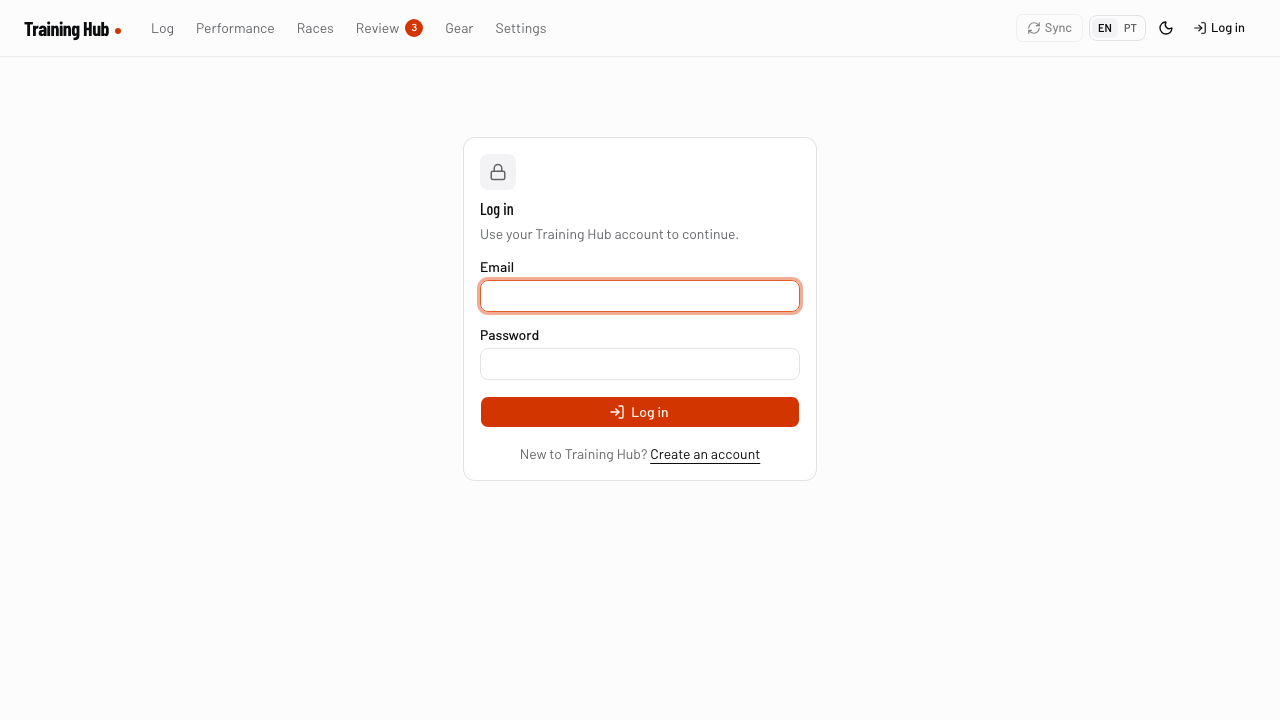
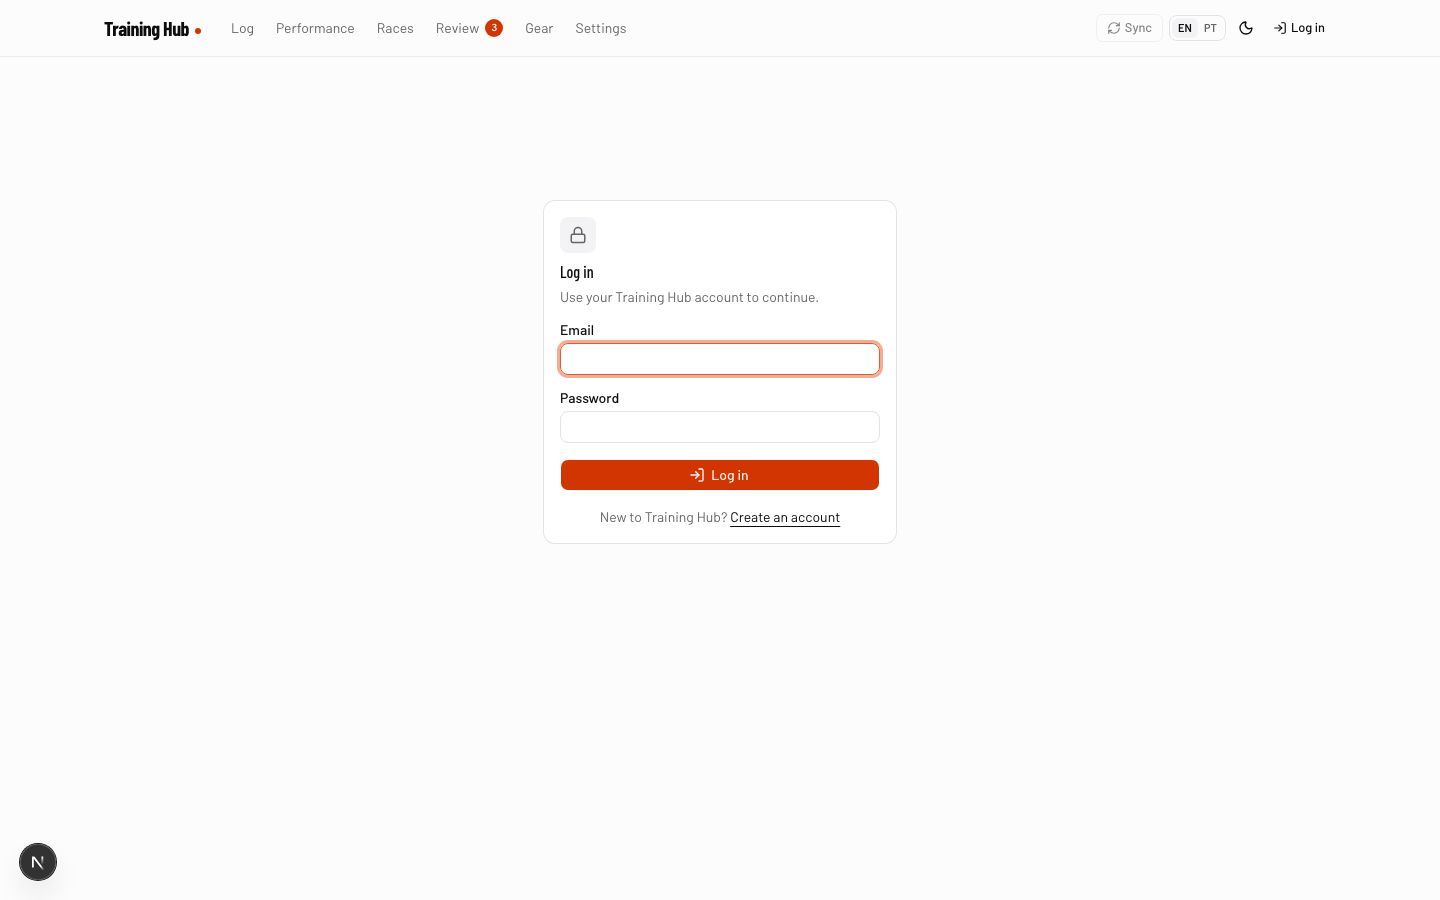
test: harden auth revocation evidence

diff --git a/src/lib/actions.auth.test.ts b/src/lib/actions.auth.test.ts
@@ -1,22 +1,39 @@
 import fs from "node:fs";
-import { afterEach, describe, expect, it } from "vitest";
-import { createClient } from "@libsql/client";
+import { afterEach, describe, expect, it, vi } from "vitest";
 import { LibsqlDialect } from "@libsql/kysely-libsql";
 import { Kysely } from "kysely";
 import { betterAuth } from "better-auth";
-import { getMigrations } from "better-auth/db";
 
 const DB_PATH = "data/auth-unit-test.db";
 
 afterEach(() => {
+  vi.unstubAllEnvs();
+  globalThis.__trainingHubClient = undefined;
   for (const suffix of ["", "-shm", "-wal", "-journal"]) {
     fs.rmSync(`${DB_PATH}${suffix}`, { force: true });
   }
 });
 
 describe("Better Auth database sessions", () => {
-  it("isolates two accounts and rejects a database-revoked session", async () => {
-    const client = createClient({ url: `file:${DB_PATH}` });
+  it("uses application migration 16 and rejects a revoked session on a fresh request", async () => {
+    vi.stubEnv("DATABASE_URL", `file:${DB_PATH}`);
+    vi.stubEnv("TURSO_DATABASE_URL", "");
+    vi.resetModules();
+
+    // Exercise the application migration registry, not Better Auth's schema generator.
+    const { client } = await import("./db/client");
+    const { ensureMigrated } = await import("./db/migrations");
+    await ensureMigrated();
+    const tables = await client.execute(
+      "SELECT name FROM sqlite_master WHERE type = 'table' AND name IN ('user', 'session', 'account', 'verification')"
+    );
+    expect(tables.rows.map((row) => String(row.name)).sort()).toEqual([
+      "account",
+      "session",
+      "user",
+      "verification",
+    ]);
+
     const db = new Kysely({ dialect: new LibsqlDialect({ client: client as never }) });
     const config = {
       secret: "unit-test-secret-with-at-least-32-characters",
@@ -25,10 +42,9 @@ describe("Better Auth database sessions", () => {
       emailAndPassword: { enabled: true },
       session: { cookieCache: { enabled: false } },
     };
-    await (await getMigrations(config)).runMigrations();
     const auth = betterAuth(config);
 
-    const a = await auth.api.signUpEmail({
+    const signedUp = await auth.api.signUpEmail({
       body: {
         name: "Athlete A",
         email: "a@example.test",
@@ -36,40 +52,33 @@ describe("Better Auth database sessions", () => {
       },
       asResponse: true,
     });
-    const b = await auth.api.signUpEmail({
-      body: {
-        name: "Athlete B",
-        email: "b@example.test",
-        password: "correct-horse-battery-staple",
-      },
-      asResponse: true,
-    });
-    expect(a.status).toBe(200);
-    expect(b.status).toBe(200);
-
-    const cookie = a.headers.get("set-cookie");
+    const cookie = signedUp.headers.get("set-cookie");
     const token = cookie?.match(/better-auth\.session_token=([^;]+)/)?.[1];
+    expect(signedUp.status).toBe(200);
     expect(cookie).toContain("HttpOnly");
     expect(token).toBeTruthy();
 
-    const session = await auth.api.getSession({
-      headers: new Headers({ cookie: `better-auth.session_token=${token}` }),
-    });
-    expect(session?.user.email).toBe("a@example.test");
-    expect(session?.user.id).not.toBe(
-      (
-        await auth.api.getSession({
-          headers: new Headers({ cookie: b.headers.get("set-cookie") ?? "" }),
-        })
-      )?.user.id
-    );
+    const sessionRequest = () =>
+      new Request("http://localhost:3100/api/auth/get-session", {
+        headers: { cookie: `better-auth.session_token=${token}` },
+      });
+    const beforeRevocation = await auth.handler(sessionRequest());
+    const beforeSession = await beforeRevocation.json();
+    expect(beforeSession.user.email).toBe("a@example.test");
 
-    await client.execute({ sql: "DELETE FROM session WHERE token = ?", args: [token!] });
-    const remaining = await client.execute("SELECT token FROM session");
-    expect(remaining.rows.map((row) => String(row.token))).not.toContain(token);
-    // Revocation is server-side: a later request must find no session row.
-    // `getSession` API calls share request state in-process, so the row proof is
-    // the deterministic boundary exercised here; the route/proxy covers a new request.
+    await client.execute({
+      sql: "DELETE FROM session WHERE token = ?",
+      args: [beforeSession.session.token],
+    });
+    expect(
+      Number((await client.execute("SELECT COUNT(*) AS count FROM session")).rows[0].count)
+    ).toBe(0);
+
+    // A new auth instance plus a new Request models a later server request, so
+    // this cannot reuse the direct API call's request context or cookie cache.
+    const freshAuth = betterAuth(config);
+    const afterRevocation = await freshAuth.handler(sessionRequest());
+    expect(await afterRevocation.json()).toBeNull();
     await db.destroy();
   });
 });

diff --git a/src/lib/actions.ts b/src/lib/actions.ts
@@ -1,7 +1,8 @@
 "use server";
 
 import { after } from "next/server";
-import { cookies } from "next/headers";
+import { cookies, headers } from "next/headers";
+import { redirect } from "next/navigation";
 import { NONE } from "./constants";
 import { splitErrorText, isLang } from "./i18n";
 import { LANG_COOKIE } from "./lang";
@@ -43,7 +44,7 @@ import {
 import { parseFiniteNumber, parseId, validateSplits } from "./validate";
 import { fail, type ActionResult } from "./action-result";
 import { logger } from "./telemetry";
-import { requireAuth } from "./auth";
+import { auth, requireAuth } from "./auth";
 import { dict, inRange, normalizeJournal, normalizeSplits, refreshAll } from "./action-helpers";
 import type { Feeling, SplitInput } from "./types";
 
@@ -59,6 +60,16 @@ export async function setLangAction(lang: string): Promise<void> {
     sameSite: "lax",
   });
   refreshAll();
+}
+
+// ---------------------------------------------------------------------------
+// Authentication
+// ---------------------------------------------------------------------------
+
+/** Revoke the current database session, then return to the public sign-in page. */
+export async function logoutAction(): Promise<never> {
+  await auth.api.signOut({ headers: await headers() });
+  redirect("/login");
 }
 
 // ---------------------------------------------------------------------------

diff --git a/src/components/header.tsx b/src/components/header.tsx
@@ -9,8 +9,7 @@ import { cn } from "@/lib/utils";
 import { Button } from "@/components/ui/button";
 import { useI18n } from "@/components/i18n-provider";
 import { AutoSync, SyncButton } from "@/components/sync-button";
-import { setLangAction } from "@/lib/actions";
-import { authClient } from "@/lib/auth-client";
+import { logoutAction, setLangAction } from "@/lib/actions";
 import type { Lang } from "@/lib/i18n";
 
 /**
@@ -33,21 +32,12 @@ function AuthButton({ state }: { state: AuthControl }) {
     );
   }
   return (
-    <Button
-      type="button"
-      variant="ghost"
-      size="sm"
-      onClick={async () => {
-        try {
-          await authClient.signOut();
-        } finally {
-          window.location.assign("/login");
-        }
-      }}
-    >
-      <LogOutIcon data-icon="inline-start" />
-      <span className="sr-only sm:not-sr-only">{t.login.logOut}</span>
-    </Button>
+    <form action={logoutAction}>
+      <Button type="submit" variant="ghost" size="sm">
+        <LogOutIcon data-icon="inline-start" />
+        <span className="sr-only sm:not-sr-only">{t.login.logOut}</span>
+      </Button>
+    </form>
   );
 }
 

diff --git a/docs/engineering/issue-22-auth-validation.md b/docs/engineering/issue-22-auth-validation.md
@@ -1,0 +1,43 @@
+# Issue 22 authentication validation record
+
+This record is intentionally local-only. It uses the isolated Playwright DB and
+the disposable auth accounts created by `e2e/auth.setup.ts`; it never needs a
+mail sender, remote database, or shared credentials.
+
+## Automated proof
+
+Run `npm run test:e2e -- --project=chromium-guest`. The suite proves the
+desktop form has labelled email/password controls, invalid credentials produce
+an alert and no session cookie, sign-up produces an HttpOnly session, and sign
+out returns to `/login`. `src/lib/actions.auth.test.ts` separately proves that
+migration 16 creates the application auth tables and that a previously valid
+cookie is rejected by a fresh Better Auth request after its database session
+row is deleted.
+
+## Manual visual and interaction proof
+
+Start a disposable server only (do not reuse a running development server):
+
+```sh
+DATABASE_URL=file:data/e2e.db BETTER_AUTH_SECRET=visual-proof-secret-with-at-least-32-chars BETTER_AUTH_URL=http://localhost:3101 npm run dev -- --port 3101
+```
+
+Capture the packet viewports in another terminal:
+
+```sh
+npx playwright screenshot --viewport-size='1440,900' http://localhost:3101/login evidence/issue-22/login-desktop.png
+npx playwright screenshot --viewport-size='390,844' http://localhost:3101/sign-up evidence/issue-22/signup-mobile.png
+```
+
+At each viewport, verify these observable states before accepting a change:
+
+| State | Reproduction and expected result |
+| --- | --- |
+| Keyboard focus | On `/login`, focus Email and press Tab: Password, then Log in, then Create an account receive a visible focus ring in that order. Shift+Tab reverses it. |
+| Invalid/error | Submit a nonexistent email with any password. The inline `role=alert` is announced, focus remains in the form, the URL stays `/login`, and no session cookie is created. The error is generic and does not claim whether the email exists. |
+| Pending/disabled | In browser DevTools, throttle the sign-in request, submit valid-looking credentials, and confirm the submit button is disabled and reads `Working…` until the response settles. |
+| Reduced motion | Enable `prefers-reduced-motion: reduce` in DevTools rendering emulation, repeat focus and submit. Auth state changes remain static—there is no required motion or animation to understand the result. |
+
+The committed captures show the default desktop sign-in and narrow sign-up
+states. The forms use native labels, `aria-live` feedback, disabled pending
+controls, and static state changes, so the same contract holds without motion.
